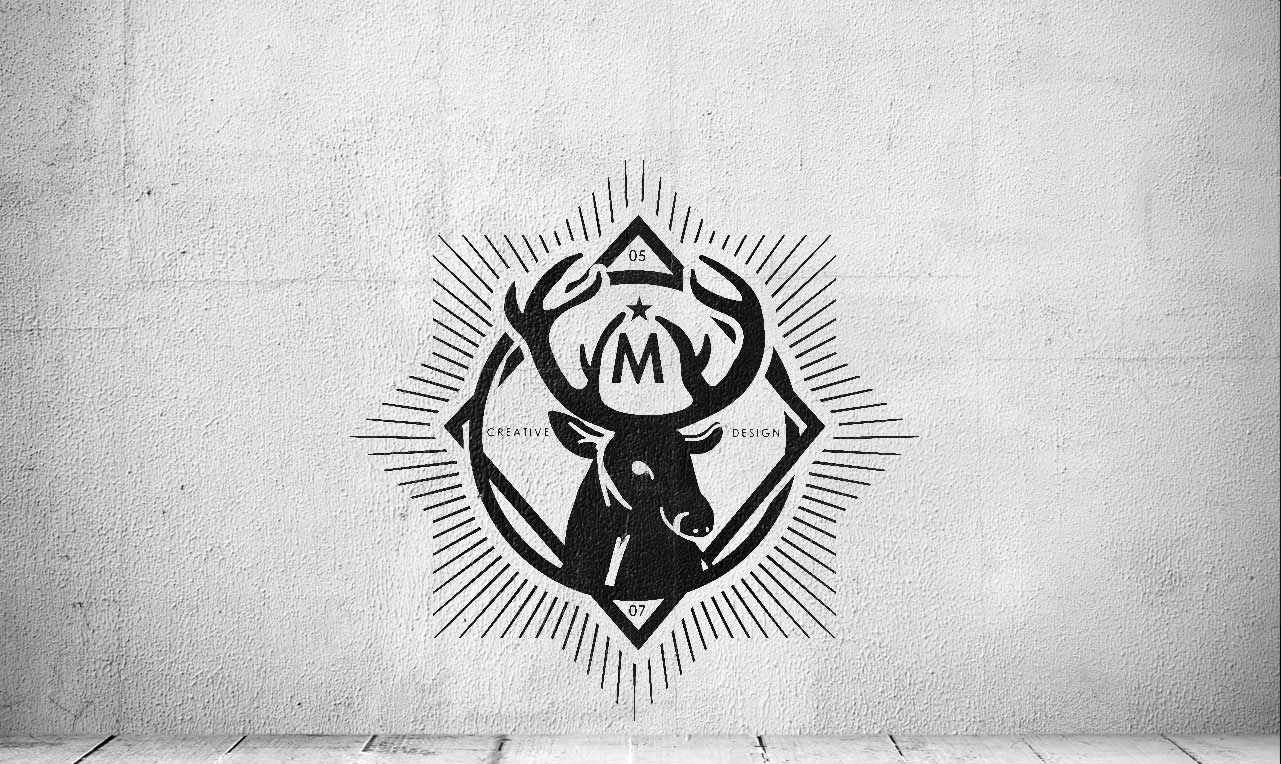
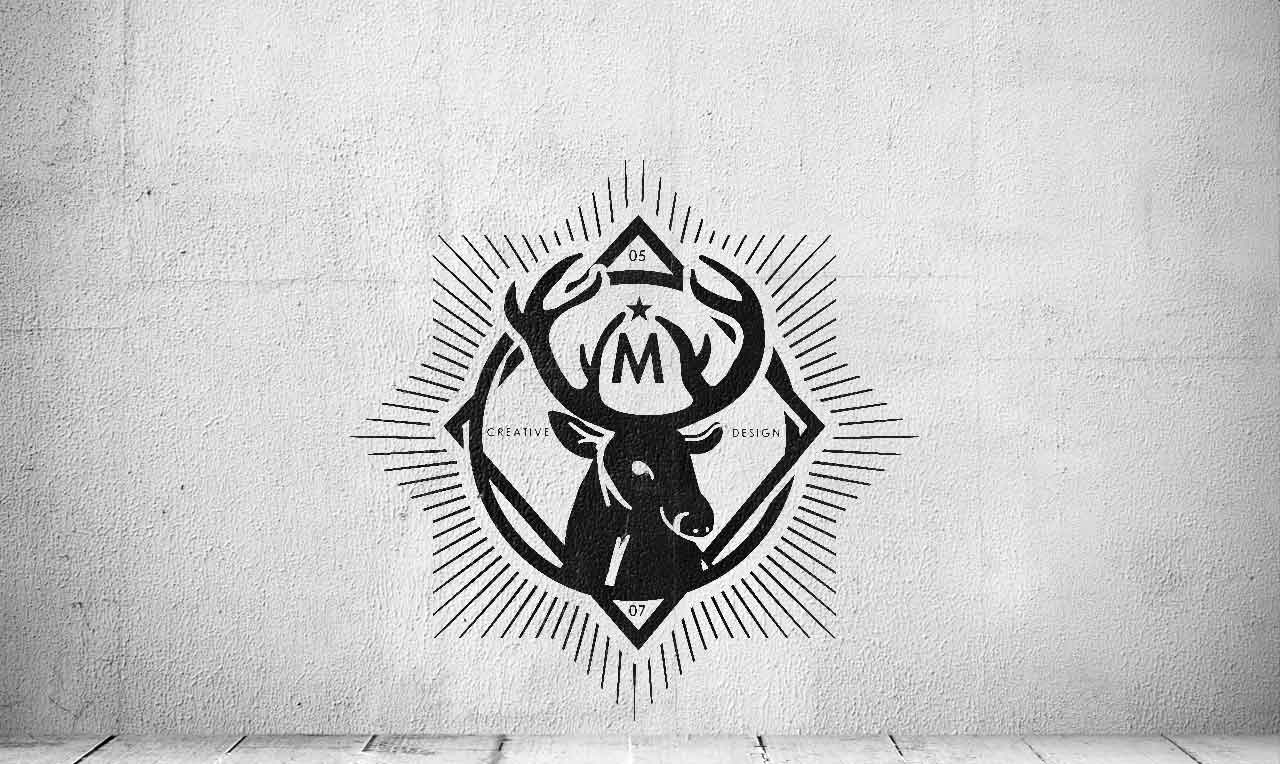
added better imgs for slider

diff --git a/index.html b/index.html
@@ -12,16 +12,20 @@
     <script src="js/vendor/modernizr.js"></script>
   </head>
   <body>
+
+    <!-- Main Nav -->
     <div class="row header">
       <div class="nav-bg columns-12">
         <img src="img/nav-bar.png" alt="">
          <ul class="nav">
-          <li><a href="#">Home</a></li>
-          <li><a href="#">Portfolio</a></li>
-          <li><a href="#">About</a></li>
-          <li><a href="#">Contact</a></li>
+          <li><a href="#">HOME</a></li>
+          <li><a href="#">PORTFOLIO</a></li>
+          <li><a href="#">ABOUT</a></li>
+          <li><a href="#">CONTACT</a></li>
         </ul>
-    </div>
+      </div>
+    <!-- End Nav -->
+    <!-- Orbit Slider -->
       <div class="orbit-container slider"id="slider">
         <ul class="example-orbit" data-orbit>
           <li>
@@ -39,6 +43,8 @@
         </ul>
       </div>                  
     </div>
+  <!-- End Orbit Slider -->
+
     
    
     

diff --git a/js/foundation/foundation.orbit.js b/js/foundation/foundation.orbit.js
@@ -393,7 +393,7 @@
 
     settings: {
       animation: 'slide',
-      timer_speed: 10000,
+      timer_speed: 5000,
       pause_on_hover: true,
       resume_on_mouseout: false,
       animation_speed: 500,
